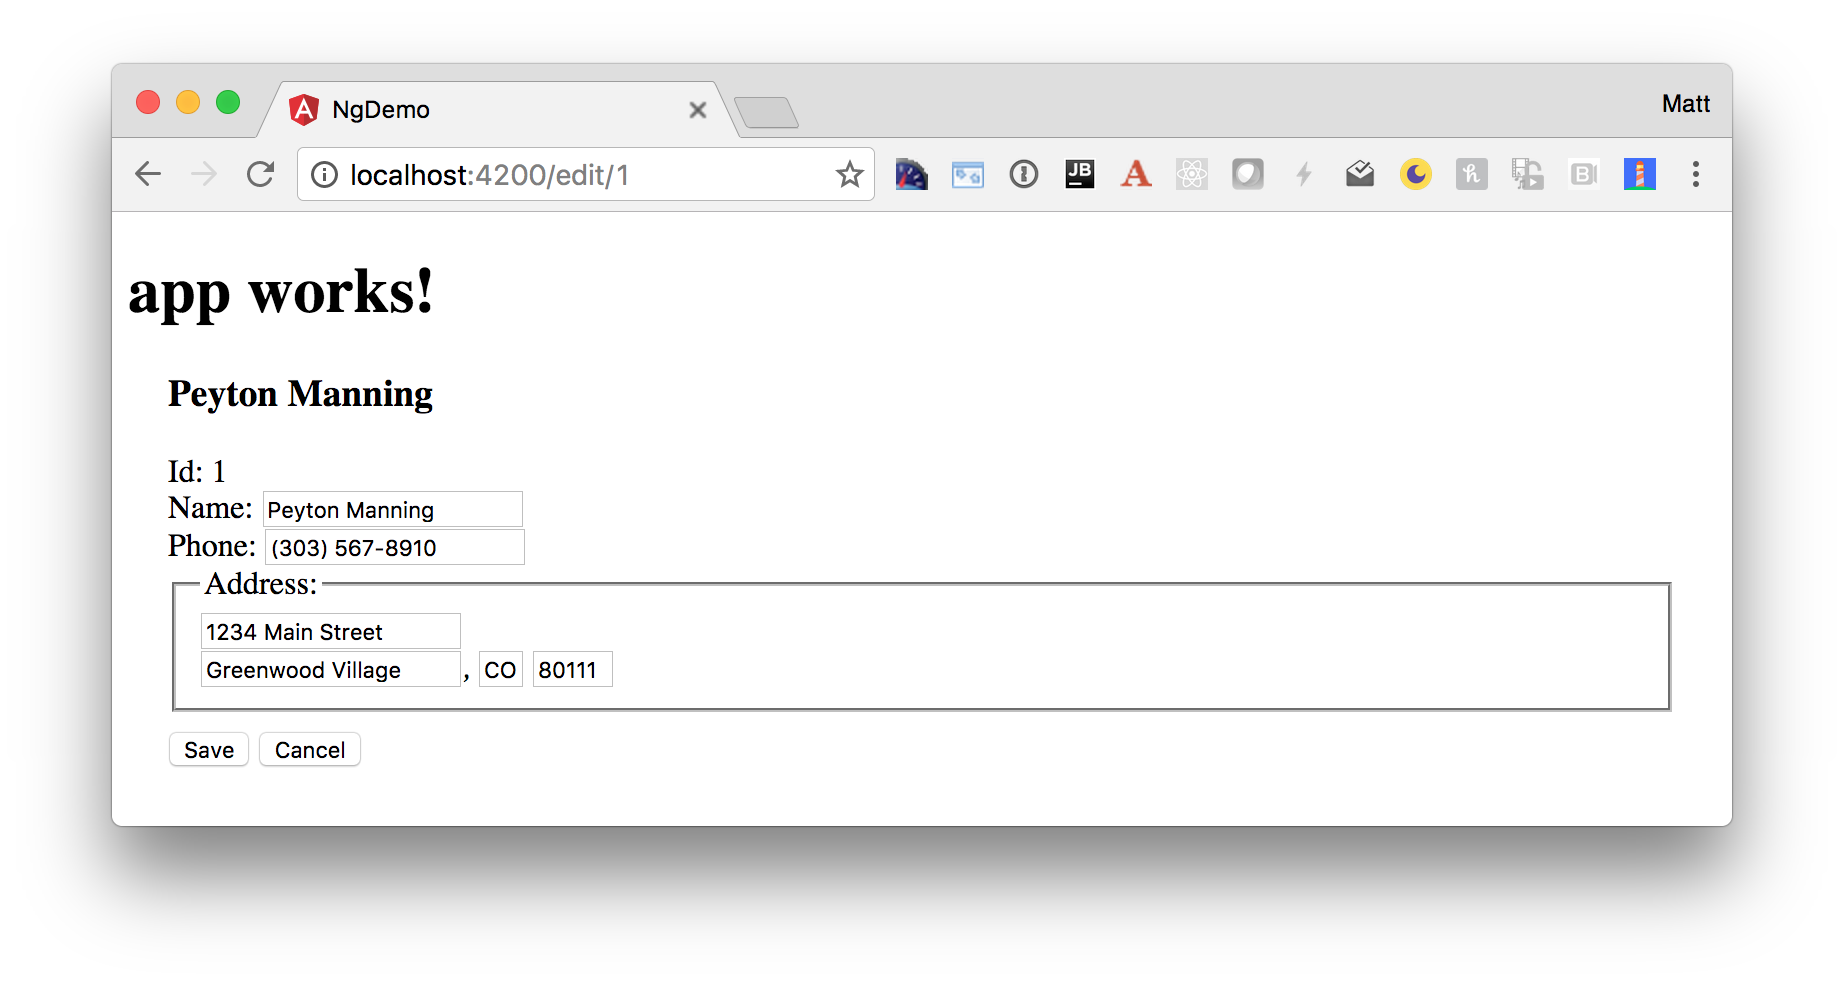
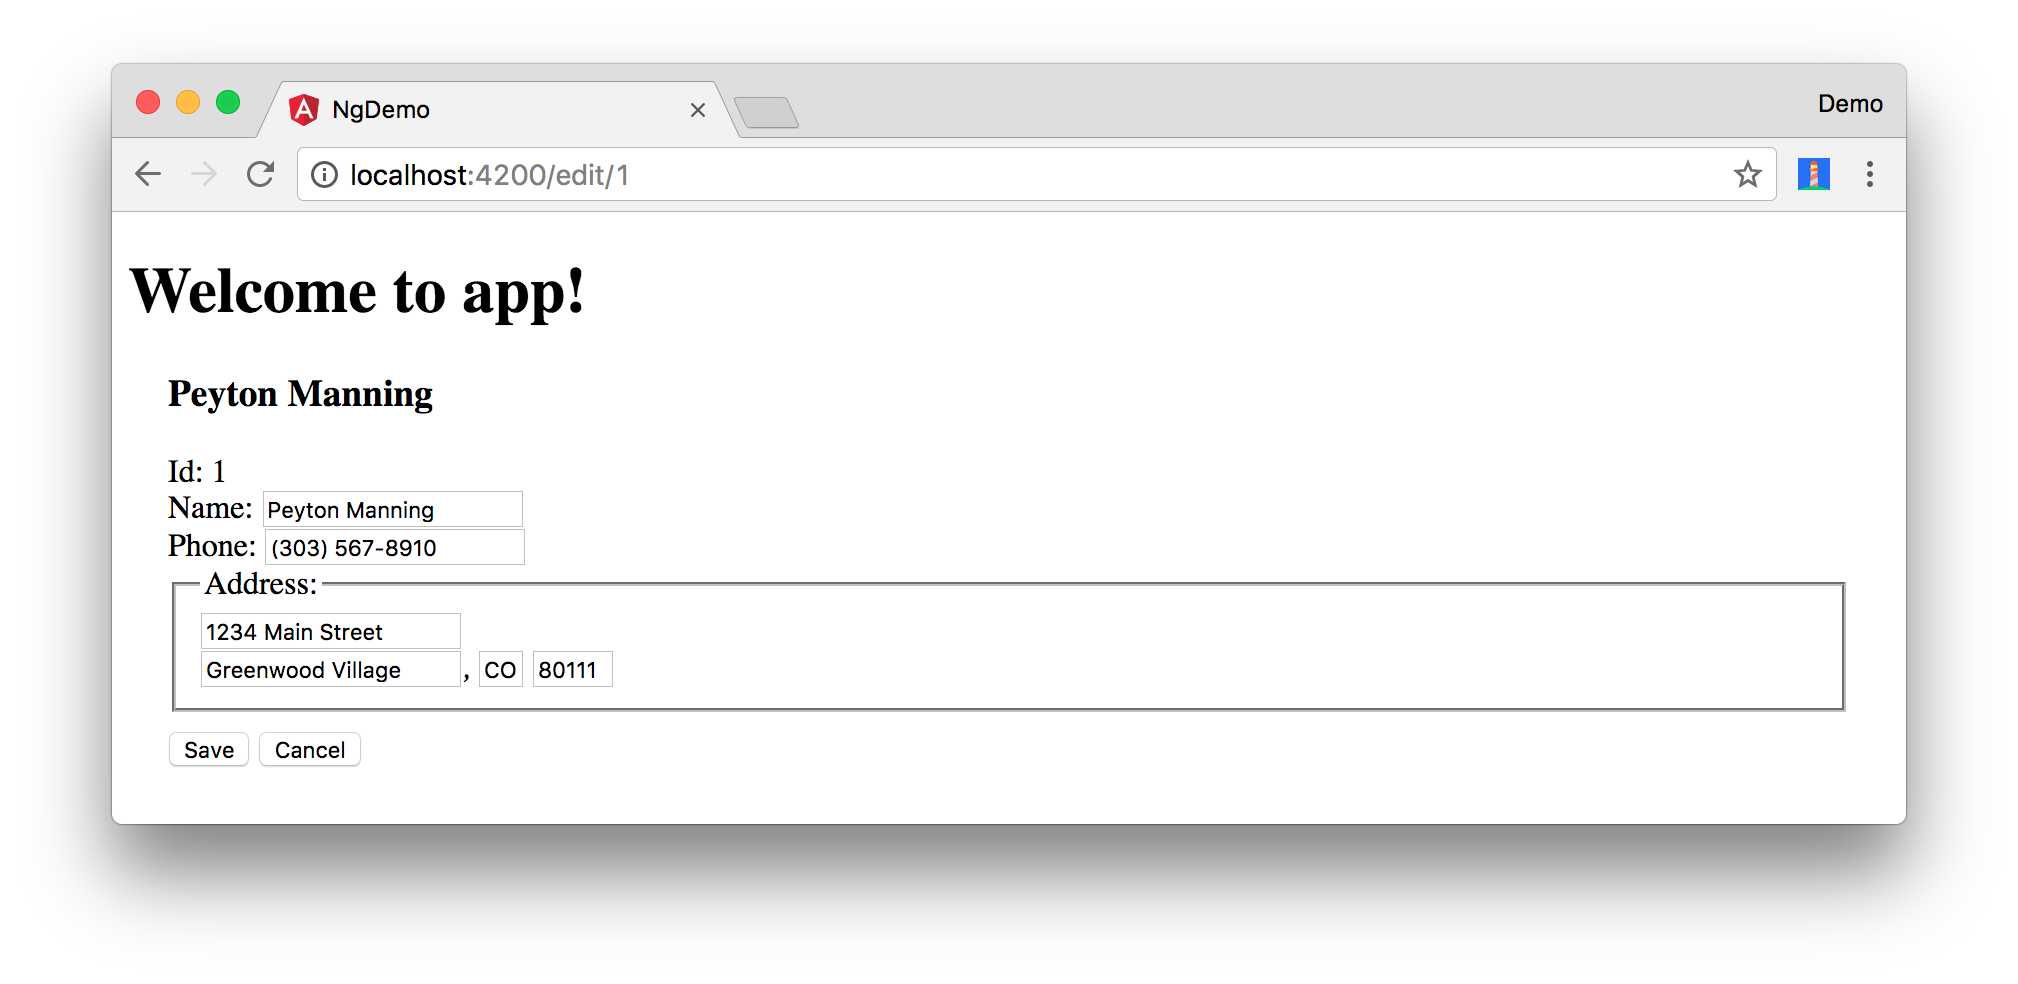
Update screenshots and tutorial after QA with Angular CLI 1.3.2

Changed region(s): [[0.0309, 0.0915, 0.9582, 0.8537], [0.34, 0.0915, 0.4018, 0.1524], [0.8964, 0.0915, 0.9582, 0.122]]

diff --git a/src/app/app.module.ts b/src/app/app.module.ts
@@ -1,18 +1,17 @@
 import { BrowserModule } from '@angular/platform-browser';
 import { NgModule } from '@angular/core';
 import { FormsModule } from '@angular/forms';
-import { HttpModule } from '@angular/http';
-
 import { AppComponent } from './app.component';
 import { SearchComponent } from './search/search.component';
-import { EditComponent } from './edit/edit.component';
 import { Routes, RouterModule } from '@angular/router';
 import { SearchService } from './shared';
+import { HttpModule } from '@angular/http';
+import { EditComponent } from './edit/edit.component';
 
 const appRoutes: Routes = [
-  { path: 'search', component: SearchComponent },
-  { path: 'edit/:id', component: EditComponent },
-  { path: '', redirectTo: '/search', pathMatch: 'full' }
+  {path: 'search', component: SearchComponent},
+  {path: 'edit/:id', component: EditComponent},
+  {path: '', redirectTo: '/search', pathMatch: 'full'}
 ];
 
 @NgModule({
@@ -23,11 +22,12 @@ const appRoutes: Routes = [
   ],
   imports: [
     BrowserModule,
+    RouterModule.forRoot(appRoutes),
     FormsModule,
-    HttpModule,
-    RouterModule.forRoot(appRoutes)
+    HttpModule
   ],
   providers: [SearchService],
   bootstrap: [AppComponent]
 })
-export class AppModule { }
+export class AppModule {
+}

diff --git a/src/app/search/search.component.spec.ts b/src/app/search/search.component.spec.ts
@@ -1,11 +1,11 @@
-/* tslint:disable:no-unused-variable */
-import { ActivatedRoute, Router } from '@angular/router';
-import { MockActivatedRoute, MockRouter } from '../shared/search/mocks/routes';
-import { MockSearchService } from '../shared/search/mocks/search.service';
-import { SearchComponent } from './search.component';
 import { ComponentFixture, TestBed } from '@angular/core/testing';
-import { FormsModule } from '@angular/forms';
+import { SearchComponent } from './search.component';
+import { MockSearchService } from '../shared/search/mocks/search.service';
+import { MockActivatedRoute, MockRouter } from '../shared/search/mocks/routes';
 import { SearchService } from '../shared/search/search.service';
+import { ActivatedRoute, Router } from '@angular/router';
+import { FormsModule } from '@angular/forms';
+import { RouterTestingModule } from '@angular/router/testing';
 
 describe('SearchComponent', () => {
   let component: SearchComponent;
@@ -26,7 +26,7 @@ describe('SearchComponent', () => {
         {provide: ActivatedRoute, useValue: mockActivatedRoute},
         {provide: Router, useValue: mockRouter}
       ],
-      imports: [FormsModule]
+      imports: [FormsModule, RouterTestingModule]
     }).compileComponents();
   });
 

diff --git a/src/app/shared/search/mocks/helper.ts b/src/app/shared/search/mocks/helper.ts
@@ -19,10 +19,10 @@ export class SpyObject {
       object = new SpyObject();
     }
 
-    let m = {};
+    const m = {};
     Object.keys(config).forEach((key) => m[key] = config[key]);
     Object.keys(overrides).forEach((key) => m[key] = overrides[key]);
-    for (let key in m) {
+    for (const key in m) {
       object.spy(key).andReturn(m[key]);
     }
     return object;
@@ -30,7 +30,7 @@ export class SpyObject {
 
   constructor(type = null) {
     if (type) {
-      for (let prop in type.prototype) {
+      for (const prop in type.prototype) {
         let m = null;
         try {
           m = type.prototype[prop];
@@ -58,7 +58,7 @@ export class SpyObject {
 
   /** @internal */
   _createGuinnessCompatibleSpy(name): GuinessCompatibleSpy {
-    let newSpy: GuinessCompatibleSpy = <any>jasmine.createSpy(name);
+    const newSpy: GuinessCompatibleSpy = <any>jasmine.createSpy(name);
     newSpy.andCallFake = <any>newSpy.and.callFake;
     newSpy.andReturn = <any>newSpy.and.returnValue;
     newSpy.reset = <any>newSpy.calls.reset;

diff --git a/src/app/search/search.component.ts b/src/app/search/search.component.ts
@@ -1,5 +1,5 @@
 import { Component, OnInit, OnDestroy } from '@angular/core';
-import { Person, SearchService } from '../shared/index';
+import { Person, SearchService } from '../shared';
 import { Router, ActivatedRoute } from '@angular/router';
 import { Subscription } from 'rxjs';
 
@@ -22,21 +22,19 @@ export class SearchComponent implements OnInit, OnDestroy {
     });
   }
 
-  search(): void {
-    this.searchService.search(this.query).subscribe(
-      data => { this.searchResults = data; },
-      error => console.log(error)
-    );
-  }
-
-  onSelect(person: Person) {
-    this.router.navigate(['/edit', person.id]);
-  }
-
   ngOnInit() {
   }
 
   ngOnDestroy() {
     this.sub.unsubscribe();
+  }
+
+  search(): void {
+    this.searchService.search(this.query).subscribe(
+      data => {
+        this.searchResults = data;
+      },
+      error => console.log(error)
+    );
   }
 }

diff --git a/src/app/shared/search/search.service.spec.ts b/src/app/shared/search/search.service.spec.ts
@@ -7,13 +7,12 @@ import { MockBackend } from '@angular/http/testing';
 describe('SearchService', () => {
   beforeEach(() => {
     TestBed.configureTestingModule({
-      providers: [
+      providers: [SearchService,
         {
           provide: Http, useFactory: (backend: ConnectionBackend, defaultOptions: BaseRequestOptions) => {
           return new Http(backend, defaultOptions);
         }, deps: [MockBackend, BaseRequestOptions]
         },
-        {provide: SearchService, useClass: SearchService},
         {provide: MockBackend, useClass: MockBackend},
         {provide: BaseRequestOptions, useClass: BaseRequestOptions}
       ]

diff --git a/src/app/app.component.spec.ts b/src/app/app.component.spec.ts
@@ -1,12 +1,14 @@
 import { TestBed, async } from '@angular/core/testing';
+import { RouterTestingModule } from '@angular/router/testing';
 
 import { AppComponent } from './app.component';
-import { RouterTestingModule } from '@angular/router/testing';
 
 describe('AppComponent', () => {
   beforeEach(async(() => {
     TestBed.configureTestingModule({
-      declarations: [AppComponent],
+      declarations: [
+        AppComponent
+      ],
       imports: [RouterTestingModule]
     }).compileComponents();
   }));

diff --git a/src/app/search/search.component.html b/src/app/search/search.component.html
@@ -14,7 +14,7 @@
   </thead>
   <tbody>
   <tr *ngFor="let person of searchResults; let i=index">
-    <td><a href="" (click)="onSelect(person); false">{{person.name}}</a></td>
+    <td><a [routerLink]="['/edit', person.id]">{{person.name}}</a></td>
     <td>{{person.phone}}</td>
     <td>{{person.address.street}}<br/>
       {{person.address.city}}, {{person.address.state}} {{person.address.zip}}

diff --git a/src/app/edit/edit.component.ts b/src/app/edit/edit.component.ts
@@ -1,5 +1,5 @@
 import { Component, OnInit, OnDestroy } from '@angular/core';
-import { Address, Person, SearchService } from '../shared/index';
+import { Address, Person, SearchService } from '../shared';
 import { Subscription } from 'rxjs';
 import { ActivatedRoute, Router } from '@angular/router';
 

diff --git a/src/app/edit/edit.component.spec.ts b/src/app/edit/edit.component.spec.ts
@@ -1,4 +1,3 @@
-/* tslint:disable:no-unused-variable */
 import { MockSearchService } from '../shared/search/mocks/search.service';
 import { EditComponent } from './edit.component';
 import { TestBed } from '@angular/core/testing';

diff --git a/src/app/app.component.html b/src/app/app.component.html
@@ -1,6 +1,3 @@
-<h1>
-  Welcome to {{title}}!
-</h1>
-
+<h1>Welcome to {{title}}!</h1>
 <!-- Routed views go here -->
 <router-outlet></router-outlet>
